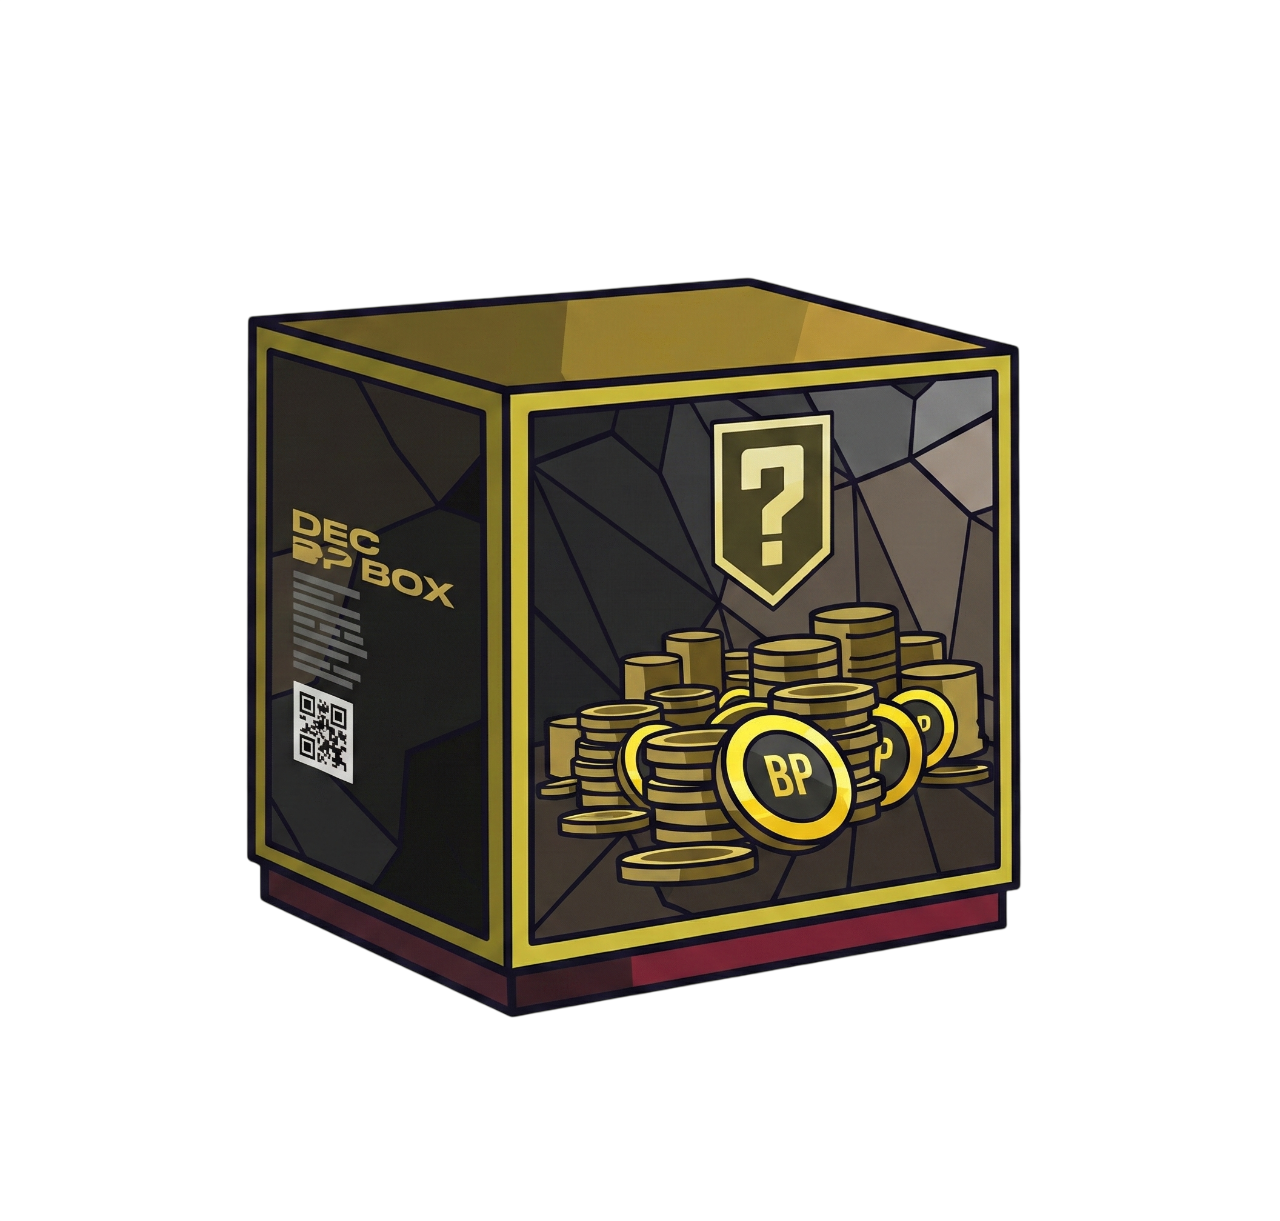
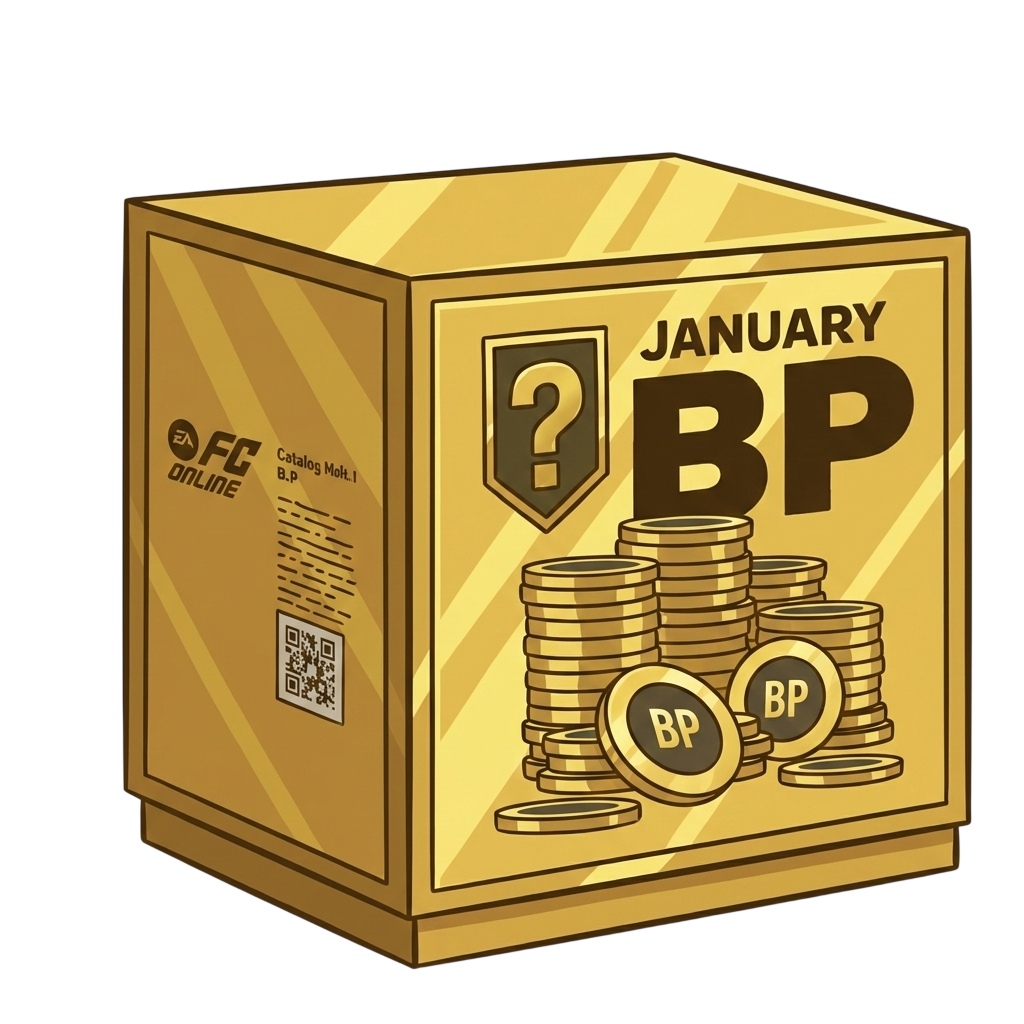
feat: Add box assets and `boxData.ts` for new box functionality.

diff --git a/src/data/boxData.ts b/src/data/boxData.ts
@@ -26,107 +26,66 @@ import type { BoxType, BoxReward } from '@/types';
 // Re-export types for backward compatibility
 export type { BoxType, BoxReward };
 
-// ===== BP Box December 2025 =====
-export const BP_BOX_DEC_2025: BoxType = {
-    id: 'bp-box-dec-2025',
-    name: 'กล่อง BP (Dec 2025)',
+// ===== BP Box January 2026 =====
+export const BP_BOX_JAN_2026: BoxType = {
+    id: 'bp-box-jan-2026',
+    name: 'กล่อง BP (Jan 2026)',
     description: 'ได้รับไอเทม 1 อย่างจากรายการดังนี้',
     icon: '/box/bp.png',
     color: '#FF6B6B',
     valueUnit: 'bp',
     fcCost: 5000,
-    expiresAt: '2026.01.04.23H59M',
-    purchaseLimit: 300,
+    expiresAt: '2026.02.01.23H59M',
     rewards: [
         {
-            id: 'bp-20t-80t',
-            name: 'การ์ด BP (20T - 80T BP)',
-            minValue: 20_000_000_000_000,
-            maxValue: 80_000_000_000_000,
-            chance: 0.11,
+            id: 'bp-7.5t-30t',
+            name: 'การ์ด BP (7.5T - 30T BP) x1',
+            minValue: 7_500_000_000_000,
+            maxValue: 30_000_000_000_000,
+            chance: 1.45,
             rarity: 'legendary',
         },
         {
-            id: 'bp-12.5t-50t',
-            name: 'การ์ด BP (12.5T - 50T BP)',
-            minValue: 12_500_000_000_000,
-            maxValue: 50_000_000_000_000,
-            chance: 0.22,
-            rarity: 'epic',
-        },
-        {
-            id: 'bp-7.5t-30t',
-            name: 'การ์ด BP (7.5T - 30T BP)',
-            minValue: 7_500_000_000_000,
-            maxValue: 30_000_000_000_000,
-            chance: 0.22,
-            rarity: 'epic',
-        },
-        {
-            id: 'bp-5t-20t',
-            name: 'การ์ด BP (5T - 20T BP)',
-            minValue: 5_000_000_000_000,
-            maxValue: 20_000_000_000_000,
-            chance: 0.22,
-            rarity: 'epic',
-        },
-        {
             id: 'bp-2.5t-10t',
-            name: 'การ์ด BP (2.5T - 10T BP)',
+            name: 'การ์ด BP (2.5T - 10T BP) x1',
             minValue: 2_500_000_000_000,
             maxValue: 10_000_000_000_000,
-            chance: 0.33,
-            rarity: 'rare',
+            chance: 2.90,
+            rarity: 'epic',
         },
         {
             id: 'bp-500b-2t',
-            name: 'การ์ด BP (500B - 2T BP)',
+            name: 'การ์ด BP (500B - 2T BP) x1',
             minValue: 500_000_000_000,
             maxValue: 2_000_000_000_000,
-            chance: 15.56,
+            chance: 47.83,
             rarity: 'uncommon',
         },
         {
-            id: 'bp-450b-1.8t',
-            name: 'การ์ด BP (450B - 1.8T BP)',
-            minValue: 450_000_000_000,
-            maxValue: 1_800_000_000_000,
-            chance: 22.22,
-            rarity: 'common',
-        },
-        {
             id: 'bp-400b-1.6t',
-            name: 'การ์ด BP (400B - 1.6T BP)',
+            name: 'การ์ด BP (400B - 1.6T BP) x1',
             minValue: 400_000_000_000,
             maxValue: 1_600_000_000_000,
-            chance: 27.78,
-            rarity: 'common',
-        },
-        {
-            id: 'bp-350b-1.4t',
-            name: 'การ์ด BP (350B - 1.4T BP)',
-            minValue: 350_000_000_000,
-            maxValue: 1_400_000_000_000,
-            chance: 33.33,
+            chance: 47.83,
             rarity: 'common',
         },
     ],
 };
 
-// ===== Champions Chest December 2025 =====
-export const CHAMPIONS_CHEST_DEC_2025: BoxType = {
-    id: 'champions-chest-dec-2025',
-    name: 'กล่องชิ้นส่วนกุญแจ Champions Chest (Dec 2025)',
+// ===== Champions Chest January 2026 =====
+export const CHAMPIONS_CHEST_JAN_2026: BoxType = {
+    id: 'champions-chest-jan-2026',
+    name: 'กล่องชิ้นส่วนกุญแจ Champions Chest (Jan 2026)',
     description: 'ได้รับไอเทม 1 อย่างจากรายการดังนี้',
     icon: '/box/key.png',
     color: '#ff6b6b',
     valueUnit: 'count',
     fcCost: 2000,
-    expiresAt: '2026.01.04.23H59M',
+    expiresAt: '2026.02.01.23H59M',
     rewards: [
         {
             id: 'key-x1000',
-            name: 'ชิ้นส่วนกุญแจ Champions Chest x1000',
+            name: 'ชิ้นส่วนกุญแจ Champions Chest (Jan 2026) x1000',
             minValue: 1000,
             maxValue: 1000,
             chance: 0.10,
@@ -134,7 +93,7 @@ export const CHAMPIONS_CHEST_DEC_2025: BoxType = {
         },
         {
             id: 'key-x200',
-            name: 'ชิ้นส่วนกุญแจ Champions Chest x200',
+            name: 'ชิ้นส่วนกุญแจ Champions Chest (Jan 2026) x200',
             minValue: 200,
             maxValue: 200,
             chance: 1.00,
@@ -142,7 +101,7 @@ export const CHAMPIONS_CHEST_DEC_2025: BoxType = {
         },
         {
             id: 'key-x10',
-            name: 'ชิ้นส่วนกุญแจ Champions Chest x10',
+            name: 'ชิ้นส่วนกุญแจ Champions Chest (Jan 2026) x10',
             minValue: 10,
             maxValue: 10,
             chance: 4.99,
@@ -150,7 +109,7 @@ export const CHAMPIONS_CHEST_DEC_2025: BoxType = {
         },
         {
             id: 'key-x3',
-            name: 'ชิ้นส่วนกุญแจ Champions Chest x3',
+            name: 'ชิ้นส่วนกุญแจ Champions Chest (Jan 2026) x3',
             minValue: 3,
             maxValue: 3,
             chance: 10.08,
@@ -158,7 +117,7 @@ export const CHAMPIONS_CHEST_DEC_2025: BoxType = {
         },
         {
             id: 'key-x2',
-            name: 'ชิ้นส่วนกุญแจ Champions Chest x2',
+            name: 'ชิ้นส่วนกุญแจ Champions Chest (Jan 2026) x2',
             minValue: 2,
             maxValue: 2,
             chance: 14.97,
@@ -166,7 +125,7 @@ export const CHAMPIONS_CHEST_DEC_2025: BoxType = {
         },
         {
             id: 'key-x1',
-            name: 'ชิ้นส่วนกุญแจ Champions Chest x1',
+            name: 'ชิ้นส่วนกุญแจ Champions Chest (Jan 2026) x1',
             minValue: 1,
             maxValue: 1,
             chance: 68.86,
@@ -178,8 +137,8 @@ export const CHAMPIONS_CHEST_DEC_2025: BoxType = {
 // ===== All Available Boxes =====
 // เพิ่มกล่องใหม่ที่นี่
 export const ALL_BOXES: BoxType[] = [
-    BP_BOX_DEC_2025,
-    CHAMPIONS_CHEST_DEC_2025,
+    BP_BOX_JAN_2026,
+    CHAMPIONS_CHEST_JAN_2026,
 ];
 
 // ===== Re-export colors and labels from constants =====
